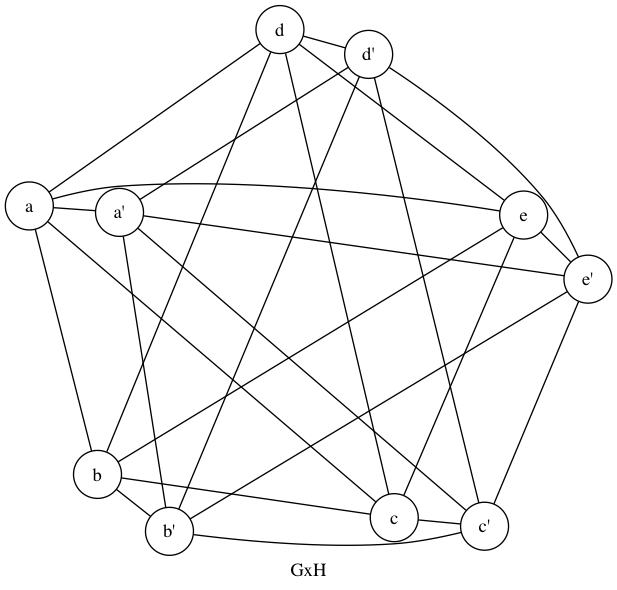
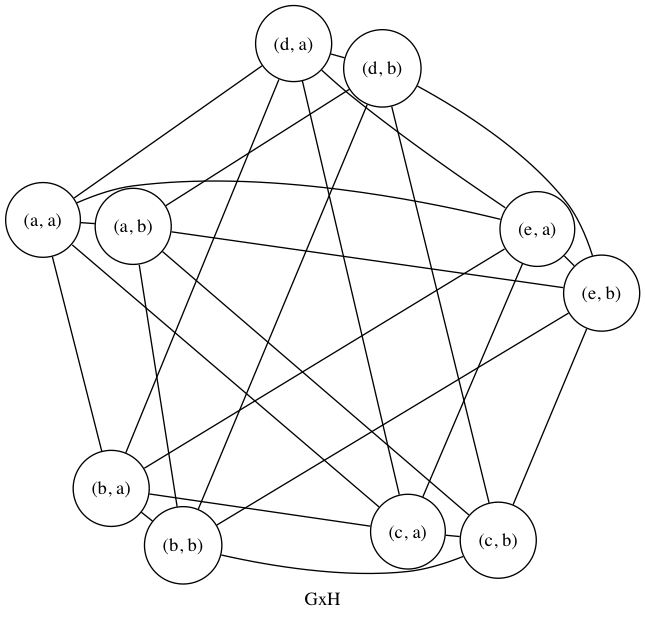
changed GxH graphs to use tuples as names

diff --git a/tut1/115.tex b/tut1/115.tex
@@ -14,7 +14,7 @@
     \centering
     \includegraphics[scale=0.5]{115/115aGH.png}
     \end{figure}
-    $GxH$
+    $G \times H$
     \begin{figure}[H]
     \centering
     \includegraphics[scale=0.5]{115/115aGH2.png}
@@ -36,7 +36,7 @@
     \centering
     \includegraphics[scale=0.5]{115/115bGH.png}
     \end{figure}
-    $GxH$
+    $G \times H$
     \begin{figure}[H]
     \centering
     \includegraphics[scale=0.5]{115/115bGH2.png}
@@ -57,7 +57,7 @@
     \centering
     \includegraphics[scale=0.5]{115/115cGH.png}
     \end{figure}
-    $GxH$
+    $G \times H$
     \begin{figure}[H]
     \centering
     \includegraphics[scale=0.5]{115/115cGH2.png}
